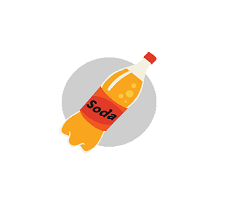
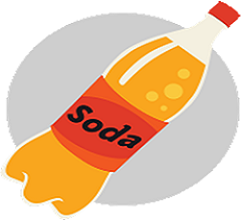
izmene u dizajnu prve i druge strane

diff --git a/www/css/style.css b/www/css/style.css
@@ -1,9 +1,7 @@
-/* Empty. Add your own CSS if you like */
-body {
+/*body {
   background-color: #F6F8FC;
   background-size: 100%;
   background-repeat: no-repeat;
-  /*background-color: white;*/
 }
 
 .firstScreenBtn {
@@ -45,8 +43,8 @@ body {
 }
 
 #logo {
-  /*background-image: url("../img/soda.png");
-  background-position: 13% 49%;*/
+  background-image: url("../img/soda.png");
+  background-position: 13% 49%;
   background-size: 100%;
   margin-bottom: 60px;
   margin-top: -10px;
@@ -58,4 +56,260 @@ body {
 
 a {
     text-decoration: none !important;
+}*/
+
+/*First screen style*/
+body {
+  background-color: #F6F8FC;
+  background-size: 100%;
+  background-repeat: no-repeat;
+  /*background-color: white;*/
+}
+.firstScreenBtn {
+  background-image: url("../img/rozedugme.png");
+  background-size: 1000%;
+  background-position: 20% 70%;
+  background-repeat: no-repeat;
+  margin-left: auto;
+  margin-right: auto;
+  margin-bottom: 10px;
+  width: 80%;
+  height: 50px;
+  color: rgb(172, 84, 84);
+  font-size: 18px;
+  display: block;
+  border: none;
+}
+#thexFirst {
+  background-image: url("../img/rozexic.png");
+  background-size: 400%;
+  background-position: 9% 19%;
+  width: 90%;
+  height: 50px;
+  margin-top: 20px;
+  margin-left: auto;
+  margin-right: auto;
+}
+#companyFirst {
+  background-image: url("../img/cakna.png");
+  background-size: 550%;
+  background-position: 49% 25%;
+  width: 85%;
+  height: 100px;
+  margin-top: -10px;
+  margin-left: auto;
+  margin-right: auto;
+}
+#logoFirst {
+  /*background-image: url("../img/soda.png");
+  background-position: 13% 49%;*/
+  background-size: 100%;
+  margin-bottom: 60px;
+  margin-top: -10px;
+  width: 70%;
+  height: 220px;
+  margin-left: 15%;
+  background-repeat: no-repeat;
+}
+a {
+    text-decoration: none !important;
+}
+
+/*Second screen style*/
+/*body {
+  background-image: url("../img/zutapozadina.png");
+  background-size: 100%;
+  background-repeat: no-repeat;
+}*/
+
+.inputParts {
+  width: 90% !important;
+  margin-top: 10px;
+  margin-bottom: 10px;
+  background-color: white;
+  border-radius: 5px;
+  margin-left: 5%;
+  height: 50px !important;
+  border: none !important;
+}
+
+.secondScreenBtn {
+  display: block;
+  float: left;
+  width: 84% !important;
+  background-color: transparent;
+  color: #bbbcbf;
+  font-size: 18px;
+  height: 50px !important;
+  border: none;
+  text-align: left;
+  padding-left: 5px !important;
+}
+
+.icons {
+  text-align: left;
+  font-size: 28px !important;
+  color: #bbbcbf !important;
+  display: block;
+  float: left;
+  margin-top: 10px !important;
+  margin-left: 15px !important;
+}
+
+#submit {
+  width: 90% !important;
+  height: 50px !important;
+  background-color: #FEDB65;
+  border-radius: 5px;
+  margin-left: 5%;
+  margin-bottom: 30px;
+  color: #4f5051;
+  font-size: 18px;
+  display: block;
+  border: none;
+  text-align: center;
+}
+
+.headerSecond {
+  width: 100%;
+  top: 0;
+  height: auto;
+  display: block;
+}
+
+#thexSecond {
+  display: block;
+  float: left;
+  width: 50%;
+  height: 100px;
+}
+
+.rectSecond {
+  background-color: #FFF7C3;
+  color: #D4C142;
+  width: 26px;
+  height: 26px;
+  margin-left: 70%;
+  margin-top: 25px;
+  text-align: center;
+  font-size: 16px;
+  border-radius: 3px;
+  padding-top: 3px;
+}
+
+#companySecond {
+  display: block;
+  float: left;
+  background-image: url("../img/cakna.png");
+  background-size: 450%;
+  background-position: 49% 25%;
+  width: 50%;
+  height: 100px;
+  /*margin-top: -10px;
+  margin-left: auto;
+  margin-right: auto;*/
+}
+
+.infoPanel {
+  margin-top: 220px;
+  margin-left: auto;
+  margin-right: auto;
+  padding-top: 20px;
+  width: 94%;
+  height: 42%;
+  background-color: #EEEFF1;
+  border-radius: 3px;
+}
+
+#emptyFields {
+ display: none;
+ min-width: 250px;
+ margin-left: -125px;
+ background-color: rgb(245, 130, 33);
+ color: white;
+ text-shadow: 1px 1px black;
+ text-align: center;
+ border-radius: 2px;
+ padding: 16px;
+ position: fixed;
+ z-index: 2147483646;
+ left: 50%;
+ bottom: 30px;
+}
+
+/*Third screen style*/
+body {
+  background-image: url("../img/zutapozadina.png");
+  background-size: 100%;
+  background-repeat: no-repeat;
+}
+
+#personsList {
+  padding-top: 5px;
+  margin-top: 10px;
+  margin-left: 2.5%;
+  height: auto;
+  width: 95%;
+}
+
+.deliveryBoys {
+  margin-top: 170px;
+  font-size: 17px;
+  color: rgb(164, 153, 123);
+  text-align: center;
+}
+
+.headerThird {
+  width: 100%;
+  top: 0;
+  height: auto;
+  display: block;
+}
+
+#thexThird {
+  display: block;
+  float: left;
+  width: 50%;
+  height: 100px;
+}
+
+.rectThird {
+  background-color: #FDF5DF;
+  color: #9B8D6B;
+  width: 26px;
+  height: 26px;
+  margin-left: 70%;
+  margin-top: 25px;
+  text-align: center;
+  font-size: 16px;
+  border-radius: 3px;
+  padding-top: 3px;
+}
+
+#companyThird {
+  display: block;
+  float: left;
+  background-image: url("../img/cakna.png");
+  background-size: 450%;
+  background-position: 49% 25%;
+  width: 50%;
+  height: 100px;
+}
+
+.table-striped > tbody > tr:nth-child(2n+1) > td, .table-striped > tbody > tr:nth-child(2n+1) > th {
+   background-color: rgb(251, 238, 205) !important;
+   color: rgb(164, 153, 123) !important;
+   border: 1px solid white !important;
+}
+
+.table-striped > tbody > tr:nth-child(2n) > td, .table-striped > tbody > tr:nth-child(2n) > th {
+   background-color: rgb( 249, 240, 217) !important;
+   color: rgb(164, 153, 123) !important;
+   border: 1px solid white !important;
+}
+
+.table-striped > thead {
+   /*background-color: rgb(245, 130, 33) !important;
+   border: none !important;*/
+   display: none !important;
 }

diff --git a/www/templates/tab-chats.html b/www/templates/tab-chats.html
@@ -1,20 +1,20 @@
 <ion-view view-title="Chats" hide-nav-bar="true" hide-back-button="true">
   <ion-content>
-    <div class="header">
-      <div id="company"></div>
-      <div id="thex">
-        <div class="rect">
+    <div class="headerSecond">
+      <div id="companySecond"></div>
+      <div id="thexSecond">
+        <div class="rectSecond">
           X
         </div>
       </div>
     </div>
     <div class="infoPanel">
       <div class="inputParts">
-        <input type="text" name="username" placeholder="ENTER YOUR NAME" id="name" value="" class="firstScreenBtn">
+        <input type="text" name="username" placeholder="ENTER YOUR NAME" id="name" value="" class="secondScreenBtn">
         <i class="fa fa-user icons"></i>
       </div>
       <div class="inputParts">
-        <input type="text" name="password" placeholder="ENTER YOUR NUMBER" value="" id="number" class="firstScreenBtn">
+        <input type="text" name="password" placeholder="ENTER YOUR NUMBER" value="" id="number" class="secondScreenBtn">
         <i class="fa fa-lock icons"></i>
       </div>
       <!-- <input type="text" name="username" placeholder="ENTER YOUR NAME" id="name" value="" class="firstScreenBtn"> -->

diff --git a/www/templates/tab-dash.html b/www/templates/tab-dash.html
@@ -1,8 +1,8 @@
 <ion-view view-title="" hide-nav-bar="true" hide-back-button="true">
   <ion-content class="padding">
-    <div id="thex"></div>
-    <div id="company"></div>
-    <div id="logo"></div>
+    <div id="thexFirst"></div>
+    <div id="companyFirst"></div>
+    <div id="logoFirst"></div>
     <a href="#/tab/chats"><input class="firstScreenBtn" type="button" name="name" value="I NEED CHAKNA" id="firstOpt"></a><br>
     <a href="#/tab/chats"><input class="firstScreenBtn" type="button" name="name" value="I DELIVER CHAKNA" id="secondOpt"></a>
   </ion-content>
